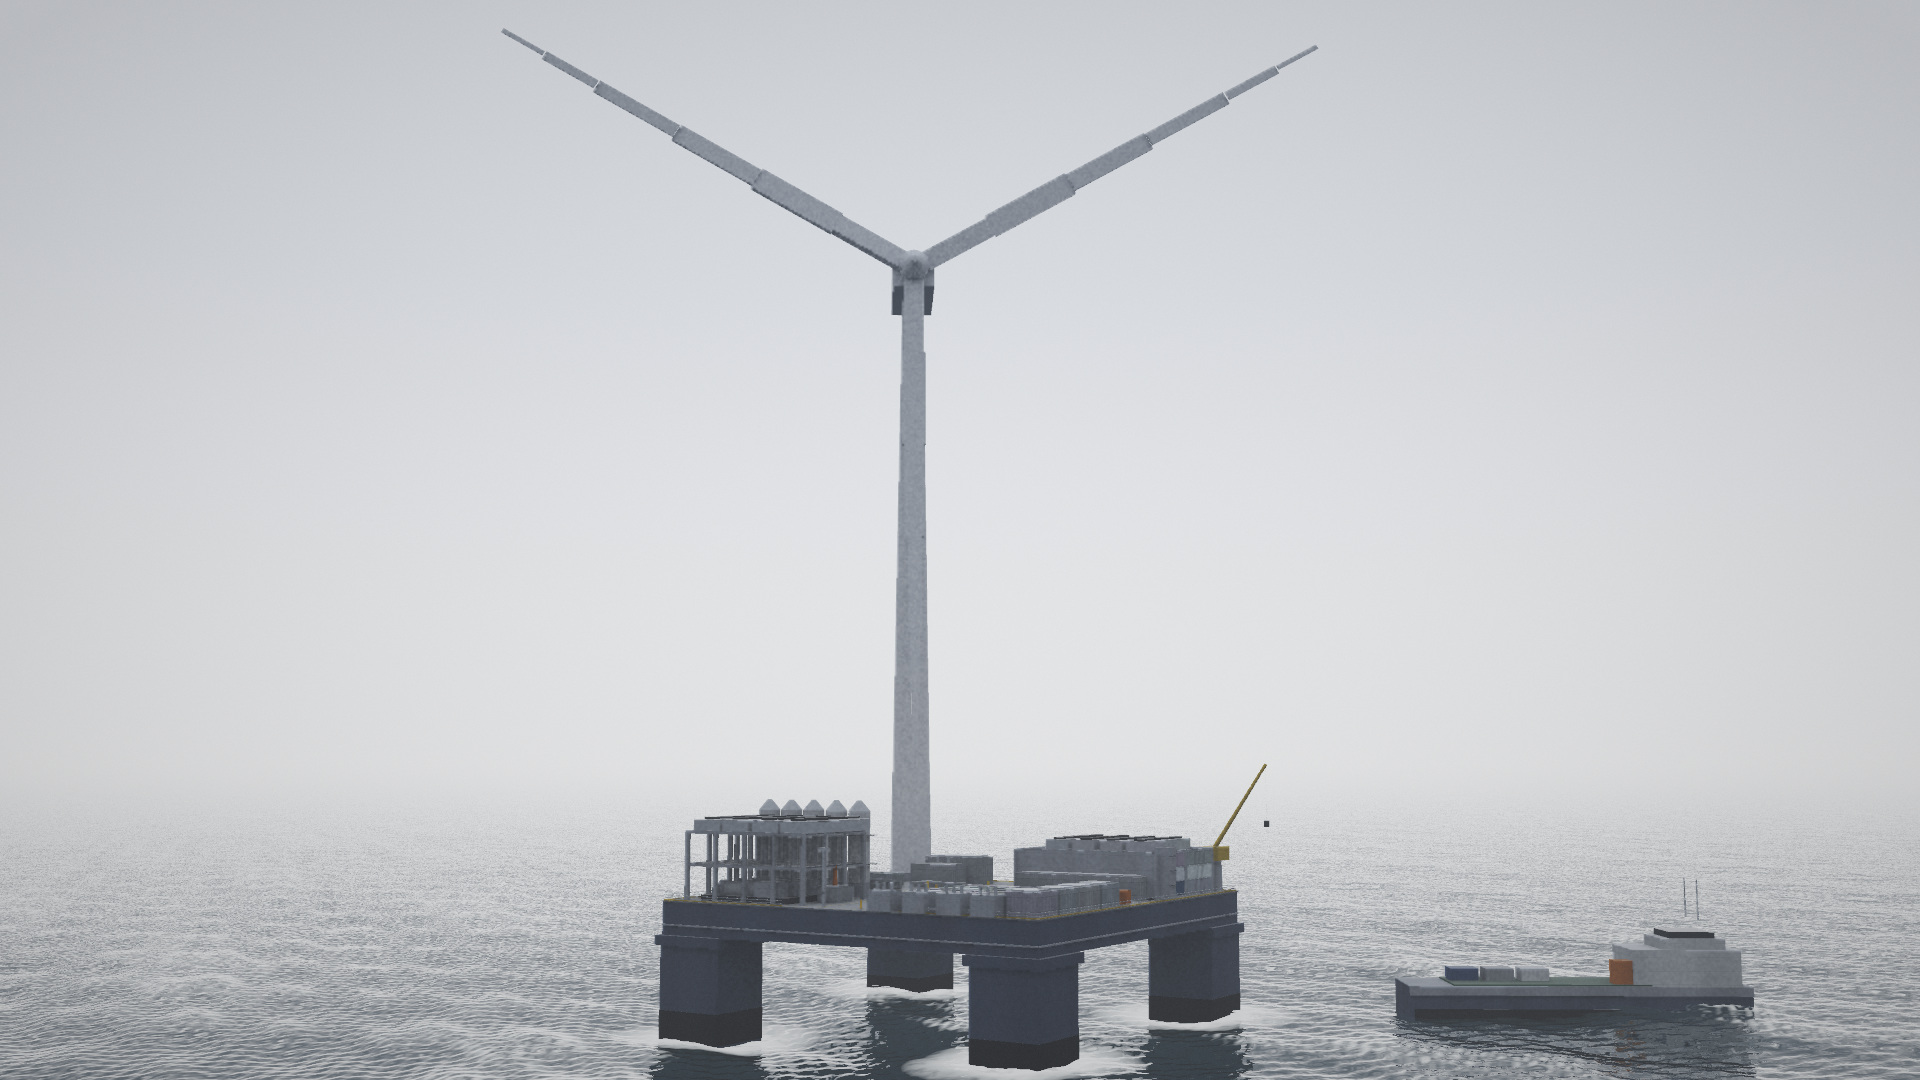
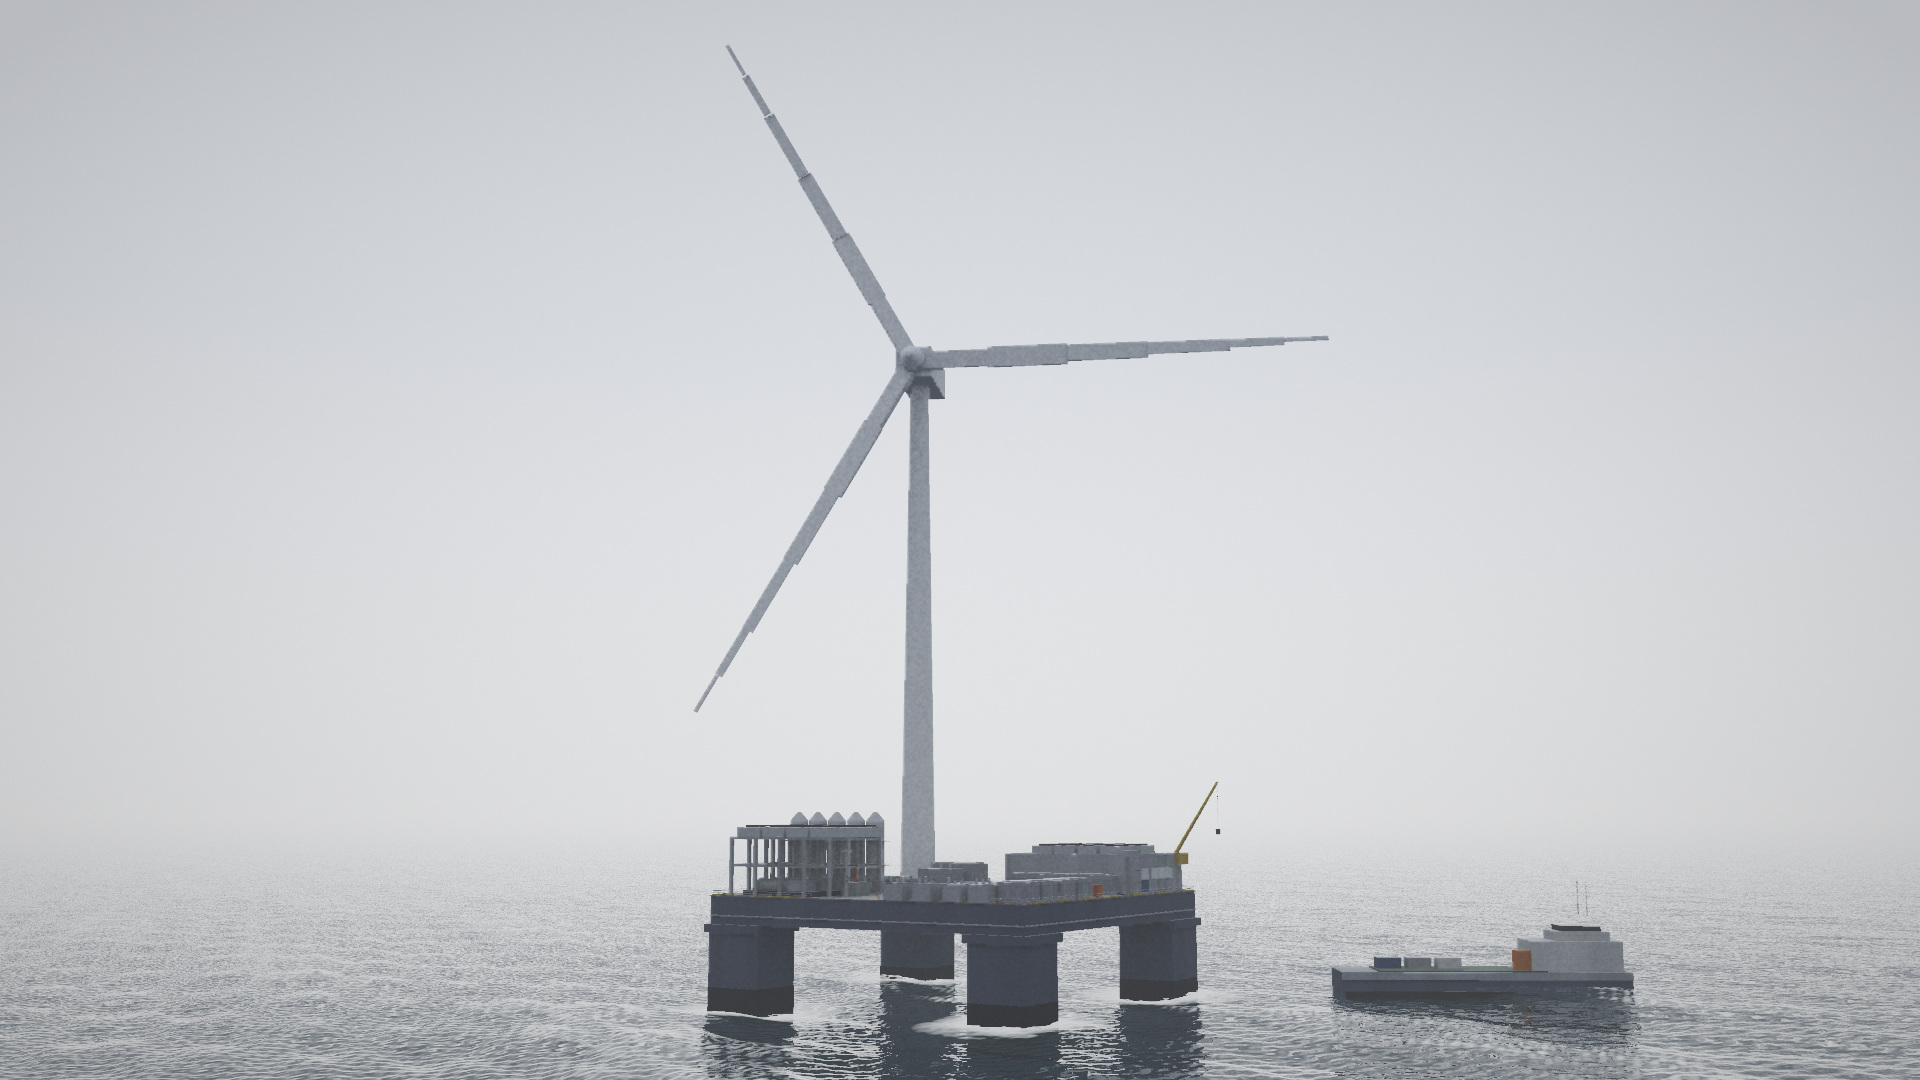
Re-render Scene 7 with the rotated rotor; add a geometry-lock test
All three blades now read as separate blades, and the frame still holds the
four columns and the waterline, which is the thing that shot exists to show.

Also adds render/test_geometry.py. Cameras, blade phase, lighting and dressing
are all free to change; the numbers in the brief are not. The test pins the
90 x 90 deck, the 15 m columns on 75 m centres with their outer faces flush to
the deck edge, the single square ring pontoon, the 27 m draft, the 236 m rotor
at 2.6 deck widths, and the tower centreline landing on the NW column centre --
so a future camera change cannot quietly move the load path.

    python3 test_geometry.py     # 21 checks, 0 failed

Scene 5 is still rendering and follows.

Claude-Session: https://claude.ai/code/session_01KngXGy7eVWu4TYepsKj8HB

Changed region(s): [[0.0, 0.0306, 1.0, 1.0]]

diff --git a/render/test_geometry.py b/render/test_geometry.py
@@ -1,0 +1,61 @@
+#!/usr/bin/env python3
+"""Assert the geometry lock from the brief.
+
+Cameras, blade phase, lighting and dressing are all free to change. These
+numbers are not. Run this after touching mpss_scene.py:
+
+    python3 test_geometry.py
+"""
+import sys
+
+import mpss_scene as S
+
+
+def check(label, got, want, tol=1e-6):
+    ok = abs(got - want) <= tol
+    print('%-46s %-10s %s' % (label, round(got, 3), 'ok' if ok else 'FAIL (want %s)' % want))
+    return ok
+
+
+def main():
+    r = []
+    r.append(check('deck side (m)', S.DECK, 90.0))
+    r.append(check('deck girder depth (m)', S.DECK_THK, 7.0))
+    r.append(check('deck area (m2)', S.DECK * S.DECK, 8100.0))
+    r.append(check('column plan size (m)', S.COL, 15.0))
+    r.append(check('column centreline inset from edge (m)', S.COL_INSET, 7.5))
+    r.append(check('column centre spacing (m)', 2 * S.COL_C, 75.0))
+    r.append(check('column outer face flush with deck edge',
+                   S.COL_C + S.COL_HALF, S.DECK_HALF))
+    r.append(check('operating draft (m)', S.DRAFT, 27.0))
+    r.append(check('pontoon depth (m)', S.PONT_H, 9.0))
+    r.append(check('ring pontoon inner edge (m from centre)',
+                   S.DECK_HALF - S.COL, 30.0))
+    r.append(check('deck underside above waterline at sea (m)', S.AIRGAP, 20.0))
+    r.append(check('tower base diameter (m)', S.TOWER_BASE_D, 10.0))
+    r.append(check('hub height above deck (m)', S.HUB_HEIGHT, 150.0))
+    r.append(check('rotor diameter (m)', S.ROTOR_R * 2, 236.0, tol=1.0))
+    r.append(check('rotor / deck width ratio', S.ROTOR_R * 2 / S.DECK, 2.6, tol=0.05))
+    r.append(check('40 ft container length (m)', S.CTR_L, 12.192))
+
+    # the load path: tower centreline must land on the NW column centreline
+    tower = (-S.COL_C, S.COL_C)
+    r.append(check('tower centreline x == NW column centre x', tower[0], -37.5))
+    r.append(check('tower centreline z == NW column centre z', tower[1], 37.5))
+    r.append(check('tower base fits inside the column footprint',
+                   S.COL - S.TOWER_BASE_D, 5.0))
+
+    # both scenes must build
+    for name, fn in (('quay', S.scene_quay_loaded), ('station', S.scene_on_station)):
+        sc, env = fn()
+        print('%-46s %d boxes, %d cones, %d clusters'
+              % ('scene %r builds' % name, sc.nb, len(sc.CH), len(sc.clusters)))
+        r.append(sc.nb > 0)
+
+    bad = r.count(False)
+    print('\n%d checks, %d failed' % (len(r), bad))
+    return 1 if bad else 0
+
+
+if __name__ == '__main__':
+    sys.exit(main())
